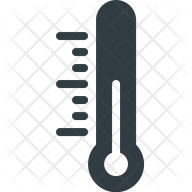
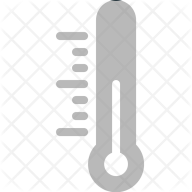
changed the weather image and the limited the list to 10 item

diff --git a/assets/javascript/urbanExplorerApp.js b/assets/javascript/urbanExplorerApp.js
@@ -23,7 +23,8 @@ $(document).ready(function () {
 
     var buttonHooker = $("#foodButtonWrapper");  // create a variable to hook all buttons ad future user input append
 
-    function renderButtons(arr) {             // create a function to render current game array as  buttons
+    function renderButtons(arr) {  
+              // create a function to render current game array as  buttons
         for (var i = 0; i < arr.length; i++) {
 
             var newDiv = $("<div>").attr("class", "imgWrap jumbotron col-md-3 col-sm-4 col-xs-6");
@@ -185,7 +186,9 @@ $(document).ready(function () {
         if (status == google.maps.places.PlacesServiceStatus.OK) {
             $("#contentContainer").empty();  // empty out the table area in a new circle
             renderTableHeader();  //render table data
-            for (var i = 0; i < results.length; i++) {
+            var newIterration = results.length;
+            if  (newIterration> 10)   newIterration = 10 ; 
+            for (var i = 0; i < newIterration; i++) {
                 var place = results[i];  //travese through a list of returned restaurant objects
                 console.log(place.name); //restaurant name
                 // console.log(place.place_id);
